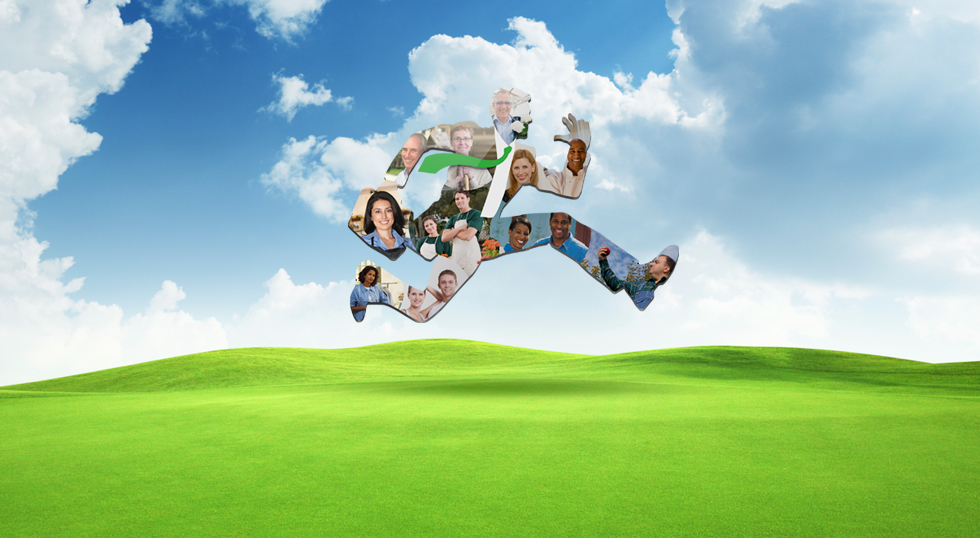
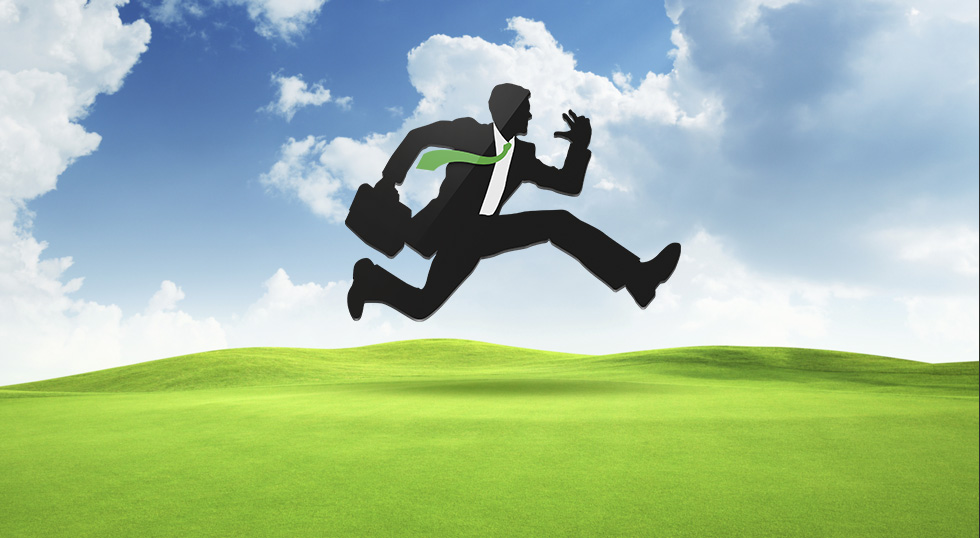
Updated to reflect Techs Only Information

diff --git a/index.html b/index.html
@@ -62,16 +62,12 @@
 	<div class="main">
 		<div class="row-fluid hero centeredtext">
 			<div class="span12">
-		  		<h1>DOTCOMGUY DISCOVERY PORTAL</h1>
-		  		<hr>
-		  		<h2 class="green">Become a DotComGuy Sales Director, Account Manager or Affiliate</h2>
-		  		<hr>
-		  		<h2>Just 2 easy steps.</h2>
+		  		<h1>Techs Only.</h1>
 		  		<br />
 		  		<br />
 		  		<div class="heroimage">
 		  			<div class="heroimage-text">
-		  				Build a business and earn steady income on recurring revenue, while rescuing today's business owners from lost productivity, failed technology and employee downtime.
+		  				For Technicians who manage and support their client’s computers, DOTCOMinator is a powerful SaaS product that makes your job easier.
 		  			</div>
 		  			<img src="img/featured.jpg" />
 		  		</div>
@@ -80,9 +76,12 @@
 
 		<div class="row-fluid pull-box leadoff">
 			<div class="span8 sp">
-	  			<img src="img/numberone.jpg" class="pull-left" style="margin-right:10px;"/>
-		  			<h5 class="green">Become the leading provider of small business technology support</h5>by leveraging DotComGuy’s network of over 20,000 U.S.-based technicians and our revolutionary Software as a Service (SaaS) business support products. YOUR JOB is to get as many DOTCOMinator downloads onto as many computers as possible. We do the rest, including our famous customer care!
-			</div>
+	  			
+		  			<h5 class="green">DOTCOMinator monitors your client’s computers, sends email alerts if there’s
+		  			a</h5> problem with their computer’s health, and protects their computers with Trend
+		  			Micro Titanium anti-virus suite, and Mozy Pro remote data backup. You can even
+		  			monitor your customer’s web site and email servers, and check on all of their
+		  			computer’s status from one easy-to-use dashboard.		</div>
 			<div class="span4 ic">
 				<img src="img/graph.jpg" class="pull-right"/>
 			</div>
@@ -92,33 +91,34 @@
 	<div class="inset options">
 		<div class="row-fluid centeredtext row-spacer-50 header">
 			<div class="span12">
-		  		<h2><span class="greentext">Three options</span> - each with their own benefits</h2>
+		  		<h2><span class="greentext">DOTCOMinator is a BIG win, win.</span></h2>
 			</div>	
 		</div>
 		<div class="row-fluid pull-box option-sales">
 			<div class="span12">
-				<img src="img/salesdirector.jpg" class="pull-left"/>
+				<a href="#" class="pull-left various fancybox.iframe"><img src="img/valueprop.jpg"></a>
+
 				<div class="pull-box-text pull-left">
-					<h3 class="green">Sales Director</h3>
-					This position is reserved for seasoned sales professionals.  This is a business opportunity that requires a DotComGuy Sales License and a desire to excel.  Each Sales Director will get the opportunity to “service &amp; support” <span class="greentext">THREE UPS STORES</span>, up to <span class="greentext">TEN ACCOUNT MANAGERS</span> and <span class="greentext">TWENTY AFFILIATES</span> to build out their business.
+					<h3 class="green">A big win for your customers.</h3>
+					It’s a BIG WIN for your customers because it’s <span class="green">ONLY $9.95* per month, per computer for a Business Basic subscription</span> (using our The UPS Store discount). You help your clients avoid computer and employee downtime, and save them up to $1,000 per month in lost productivity. Download PDF of Value Prop.
 				</div>
 			</div>
 		</div>
 		<div class="row-fluid pull-box option-account">
 			<div class="span12">
-				<img src="img/accountmanager.jpg" class="pull-right"/>
+				<a href="assets/ValueProp.pdf" class="pull-right various fancybox.iframe"><img src="img/playdotcomguyvideo.jpg"></a>
 				<div class="pull-box-text righttext pull-right">
-					<h3 class="green">Account Manager</h3>
-					No Sales License or fee required, just the desire to be successful. This position is perfect for self-starting sales professionals who want to build their own business.
+					<h3 class="green">A big win for you.</h3>
+					It’s a BIG WIN for you because <span class="green">YOU EARN a recurring income of 30% on every client for every computer you refer to us on the Business Basic subscription.</span> As a “Tech only” affiliate, our desktop DOTCOMinator software connects your clients directly to YOU if they need help. And, if you are just too busy or took a vacation day, we step in and take care of them in an emergency with our 24/7 U.S.-based technicians.
 				</div>
 			</div>
 		</div>
 		<div class="row-fluid pull-box option-affiliate">
 			<div class="span12">
-				<img src="img/affiliate.jpg" class="pull-left"/>
+				<img src="img/minidashboard.jpg" class="pull-left"/>
 				<div class="pull-box-text pull-left">
-					<h3 class="green">Affiliate</h3>
-					No Sales License or fee required, just refer customers to DotComGuy. <span class="greentext">Earnings potential is unlimited</span>, it’s all based on the number of new customers you refer to DotComGuy.
+					<h3 class="green">It’s peace of mind for you and your clients</h3>
+					Your income keeps growing, too. You get a portion of every purchase your customers make, like upgrading their cloud backup capacity or buying ink and toner through our store. <span class="green">Every time your customer buys something through DotComGuy, you get paid.</span>
 				</div>
 			</div>
 		</div>
@@ -127,139 +127,65 @@
 	<div class="inset stepone">
 		<div class="row-fluid centeredtext row-spacer-30 header">
 			<div class="span8 offset2">
-		  		<h2>STEP ONE</h2>
-		  		<span class="greentext">Discover the DotComGuy Opportunity. Watch the short videos, check out the brochures, read the media release, visit our website and watch our TV commercial.</span>
+		  		<!--<h2>STEP ONE</h2>
+		  		<span class="greentext">Discover the DotComGuy Opportunity. Watch the short videos, check out the brochures, read the media release, visit our website and watch our TV commercial.</span>-->
+		  		
+		  		<div class="span12">
+		  				<h2><span class="greentext">DOWNLOAD the DOTCOMinator...YOU GET PAID...</span><br/>AND YOU KEEP GETTING PAID for every monthly subscription and on every purchase your cusotmers makes  through DotComGuy!!!
+		  				</h2>
+		  		</div>	
+		  		
 			</div>	
 		</div>
-		<div class="masonwall">
-			<div class="row-fluid">
-				<div class="span8 special">
-					<div class="mason-box opportunity">
-						<div class="mason-text-box sp">
-							<h2 class="green">Opportunity Video</h2>
-							<p>Your future Residual Earnings start right here!</p>
-						</div>
-						<a href="http://www.youtube-nocookie.com/embed/i2pid_Xm8Mc" class="various fancybox.iframe"><img src="img/mason/video.jpg" /></a>
-					</div>
-				</div>
-				<div class="span4">
-					<div class="mason-box video1">
-						<div class="mason-text-box sp">
-							<h4 class="green">DOTCOMinator Video #1</h4>
-							<p><small>"Break the Ice" with this short animated video that captures your prospect's attention.</small></p>
-							<a href="http://www.youtube-nocookie.com/embed/HuTVqLCXVdg" class="btn-mason various fancybox.iframe">Watch Now</a> 
-						</div>
-						<img src="img/mason/santa.jpg" />
-					</div>
-				</div>
-			</div>
-			<div class="row-fluid">
-				<div class="span3">
-					<div class="mason-box inner video2">
-						<div class="mason-text-box sp">
-							<h5 class="green">DOTCOMinator Video #2</h5>
-							<p><small>Discover the features &amp; benefits of the DOTCOMinator with this short video.</small></p>
-							<a href="http://www.youtube-nocookie.com/embed/GbW0VHVzr6Y" class="btn-mason various fancybox.iframe">Watch Now</a>
-						</div>
-						<img src="img/mason/grid.jpg" />
-					</div>
-					<div class="mason-box ups">
-						<div class="mason-text-box sp">
-							<h5 class="green">DotComGuy/The UPS Store media release</h5><br />
-							<a href="" class="btn-mason">Download PDF</a>
-						</div>
-						<img src="img/mason/ups.jpg" style="padding-bottom:12px;" />
-					</div>
-				</div>
-				<div class="span9">
-					<div class="row-fluid">
-						<div class="span12">
-							<div class="mason-box clearfix dotcomguy">
-								<div class="row-fluid">
-									<div class="span4">
-										<div class="mason-text-box sp">
-											<h5 class="green">Become the next DotComGuy</h5>
-											<p><small>The Affordable Business Opportunity with Recurring income.</small></p>
-											<a href="assets/opportunity.pdf" class="btn-mason">Download PDF</a>
-										</div>
-									</div>
-									<div class="span8 special">
-										<img src="img/mason/book.jpg" class="pull-right"/>
-									</div>
-								</div>
-							</div>
-						</div>
-					</div>
-					<div class="row-fluid inner">
-						<div class="span8">
-							<div class="mason-box inner commercial">
-								<div class="row-fluid">
-									<div class="span6">
-										<div class="mason-text-box sp">
-											<h5 class="green">DotComGuy <br />TV Commercial</h5>
-											<br /><p><small>As seen on</small></p>
-											<img src="img/mason/tv.jpg" /><br /><br />
-											<a href="http://www.youtube-nocookie.com/embed/Vd56_5zzpPk" class="btn-mason various fancybox.iframe">Watch Now</a>
-										</div>
-									</div>
-									<div class="span6">
-										<img src="img/mason/tv2.jpg" class="pull-right"/>
-									</div>
-								</div>
-							</div>
-							<div class="mason-box value">
-								<div class="mason-text-box sp">
-									<h5 class="green">DOTCOMinator Value Proposition</h5>
-									<p><small>Follow Up with this brochure &amp; close the easy sale!</small></p>
-									<a href="assets/ValueProp.pdf" class="btn-mason">Download PDF</a>
-								</div>
-								<img src="img/mason/dotcominator.jpg" />
-							</div>
-						</div>
-						<div class="span4">
-							<div class="mason-box website">
-								<div class="mason-text-box sp">
-									<h5 class="green">Visit the DotComGuy Website</h5>
-									<br />
-									<a href="http://www.dotcomguy.com" target="_blank" class="btn-mason">dotcomguy.com</a>
-								</div>
-								<img src="img/mason/website.jpg" />
-							</div>
-						</div>
-					</div>
-				</div>
-			</div>
-		</div>
+		
 	</div>
 
 	<div class="inset steptwo">
-		<div class="row-fluid centeredtext row-spacer-30 header">
-			<div class="span8 offset2">
-		  		<h2>STEP TWO</h2>
-			</div>	
-		</div>
 		<div class="row-fluid pull-box webinar">
 			<div class="span12">
-				<img src="img/webinarsignup.jpg" class="circleimg pull-left" />
-				<div class="greentext pull-box-text pull-left">If you are interested in learning more about the Sales Director position, sign up here for the free webinar.</div>
-				<a href="" class="btn btn-large btn-green pull-right">Webinar sign up</a>
+				<img src="img/onecustomer.jpg" class="circleimg pull-left" />
+				<div class="greentext pull-box-text pull-left"><div class="revenueterms">Your revenue is $11.96 per month for one customer with just four computers.</div>
+				</div>
+				
 			</div>
 		</div>
 		<div class="row-fluid pull-box accountsu">
 			<div class="span12">
-				<img src="img/accountmansignup.jpg" class="circleimg pull-left" />
-				<div class="greentext2 pull-box-text pull-left">If you are interested in becoming an Account Manager, sign up here.</div>
-				<a href="" class="btn btn-large btn-green2 pull-right">Account Manager sign up</a>
+				<img src="img/100customers.jpg" class="circleimg pull-left" />
+				<div class="greentext2 pull-box-text pull-left"><div class="revenueterms">For 100 customers, your revenue increases to $1,196 per month.</div>
+				</div>
+				
 			</div>
 		</div>
 		<div class="row-fluid pull-box affiliatesu">
 			<div class="span12">
-				<img src="img/affiliatesignup.jpg" class="circleimg pull-left" />
-				<div class="greentext3 pull-box-text pull-left">If you are interested in becoming an Affiliate, sign up here.</div>
-				<a href="" class="btn btn-large btn-green3 pull-right">Affiliate sign up</a>
+				<img src="img/500customers.jpg" class="circleimg pull-left" />
+				<div class="greentext3 pull-box-text pull-left"><div class="revenueterms">At 500 customers, that would be $5,980 per month.</div>
+				</div>
+				
 			</div>
 		</div>
 	</div>
+	
+	
+	<div class="inset stepone">
+		<div class="row-fluid centeredtext row-spacer-30 header">
+			<div class="span8 offset2">
+		  		<!--<h2>STEP ONE</h2>
+		  		<span class="greentext">Discover the DotComGuy Opportunity. Watch the short videos, check out the brochures, read the media release, visit our website and watch our TV commercial.</span>-->
+		  		
+		  		<div class="span12">
+		  				<h2><span class="greentext">And that’s just for a basic subscription.</h2> </span><br/><br/>
+		  				<h4 style="line-height: 30px !important;">If your customers have more than four computers, if they upgrade, or if they buy anything else through DotComGuy, you get a portion of that too!AND YOU KEEP GETTING PAID for every monthly subscription and on every purchase your cusotmers makes  through DotComGuy!!!</h4>
+		  				
+		  		</div>	
+		  		
+			</div>	
+		</div>
+		
+	</div>
+	
+	
 
 	<footer>
 		<div class="row-fluid">

diff --git a/css/app.css b/css/app.css
@@ -78,6 +78,7 @@ body {
 
 .inset .pull-box .circleimg {
 	margin:10px 30px;
+	
 }
 
 .steptwo .span3 {
@@ -137,6 +138,18 @@ h1, h2, h3, h4, h5, h6 {
 
 h1.green, h2.green, h3.green, h4.green, h5.green, h6.green {
 	color:#6fb353;
+}
+
+span.green
+{
+	color:#6fb353;
+	
+}
+
+.paddedleftright
+{
+	padding: 0 80px;
+	line-height: 35px !important;
 }
 
 .greytext {
@@ -392,15 +405,15 @@ nav.blue a {
 }
 
 .options .pull-box-text {
-	width: 53%;
+	width: 65%;
 }
 
 .options .option-sales .pull-box-text {
-	margin: 45px 40px 0px 30px;
+	margin: 55px 40px 0px 30px;
 }
 
 .options .option-account .pull-box-text {
-	margin: 60px 30px 0px 0px;
+	margin: 50px 30px 0px 0px;
 }
 
 .options .option-affiliate .pull-box-text {
@@ -408,24 +421,30 @@ nav.blue a {
 }
 
 .steptwo .pull-box-text {
-	width: 37%;
+	width: 59%;
 }
 
 .steptwo .webinar .pull-box-text {
-	margin: 60px 40px 0px 0px;
+	margin: 71px 40px 0px 0px;
 }
 
 .steptwo .accountsu .pull-box-text {
-	margin: 60px 40px 0px 0px;
+	margin: 71px 40px 0px 0px;
 }
 
 .steptwo .affiliatesu .pull-box-text {
-	margin: 60px 40px 0px 0px;
+	margin: 71px 40px 0px 0px;
 }
 
 .steptwo .btn {
 	width:28%;
 	margin:58px 40px 0px 0px;
+}
+
+.revenueterms
+{
+	font-size: 18px;
+	width: 100%;	
 }
 
 .opportunity .sp {
